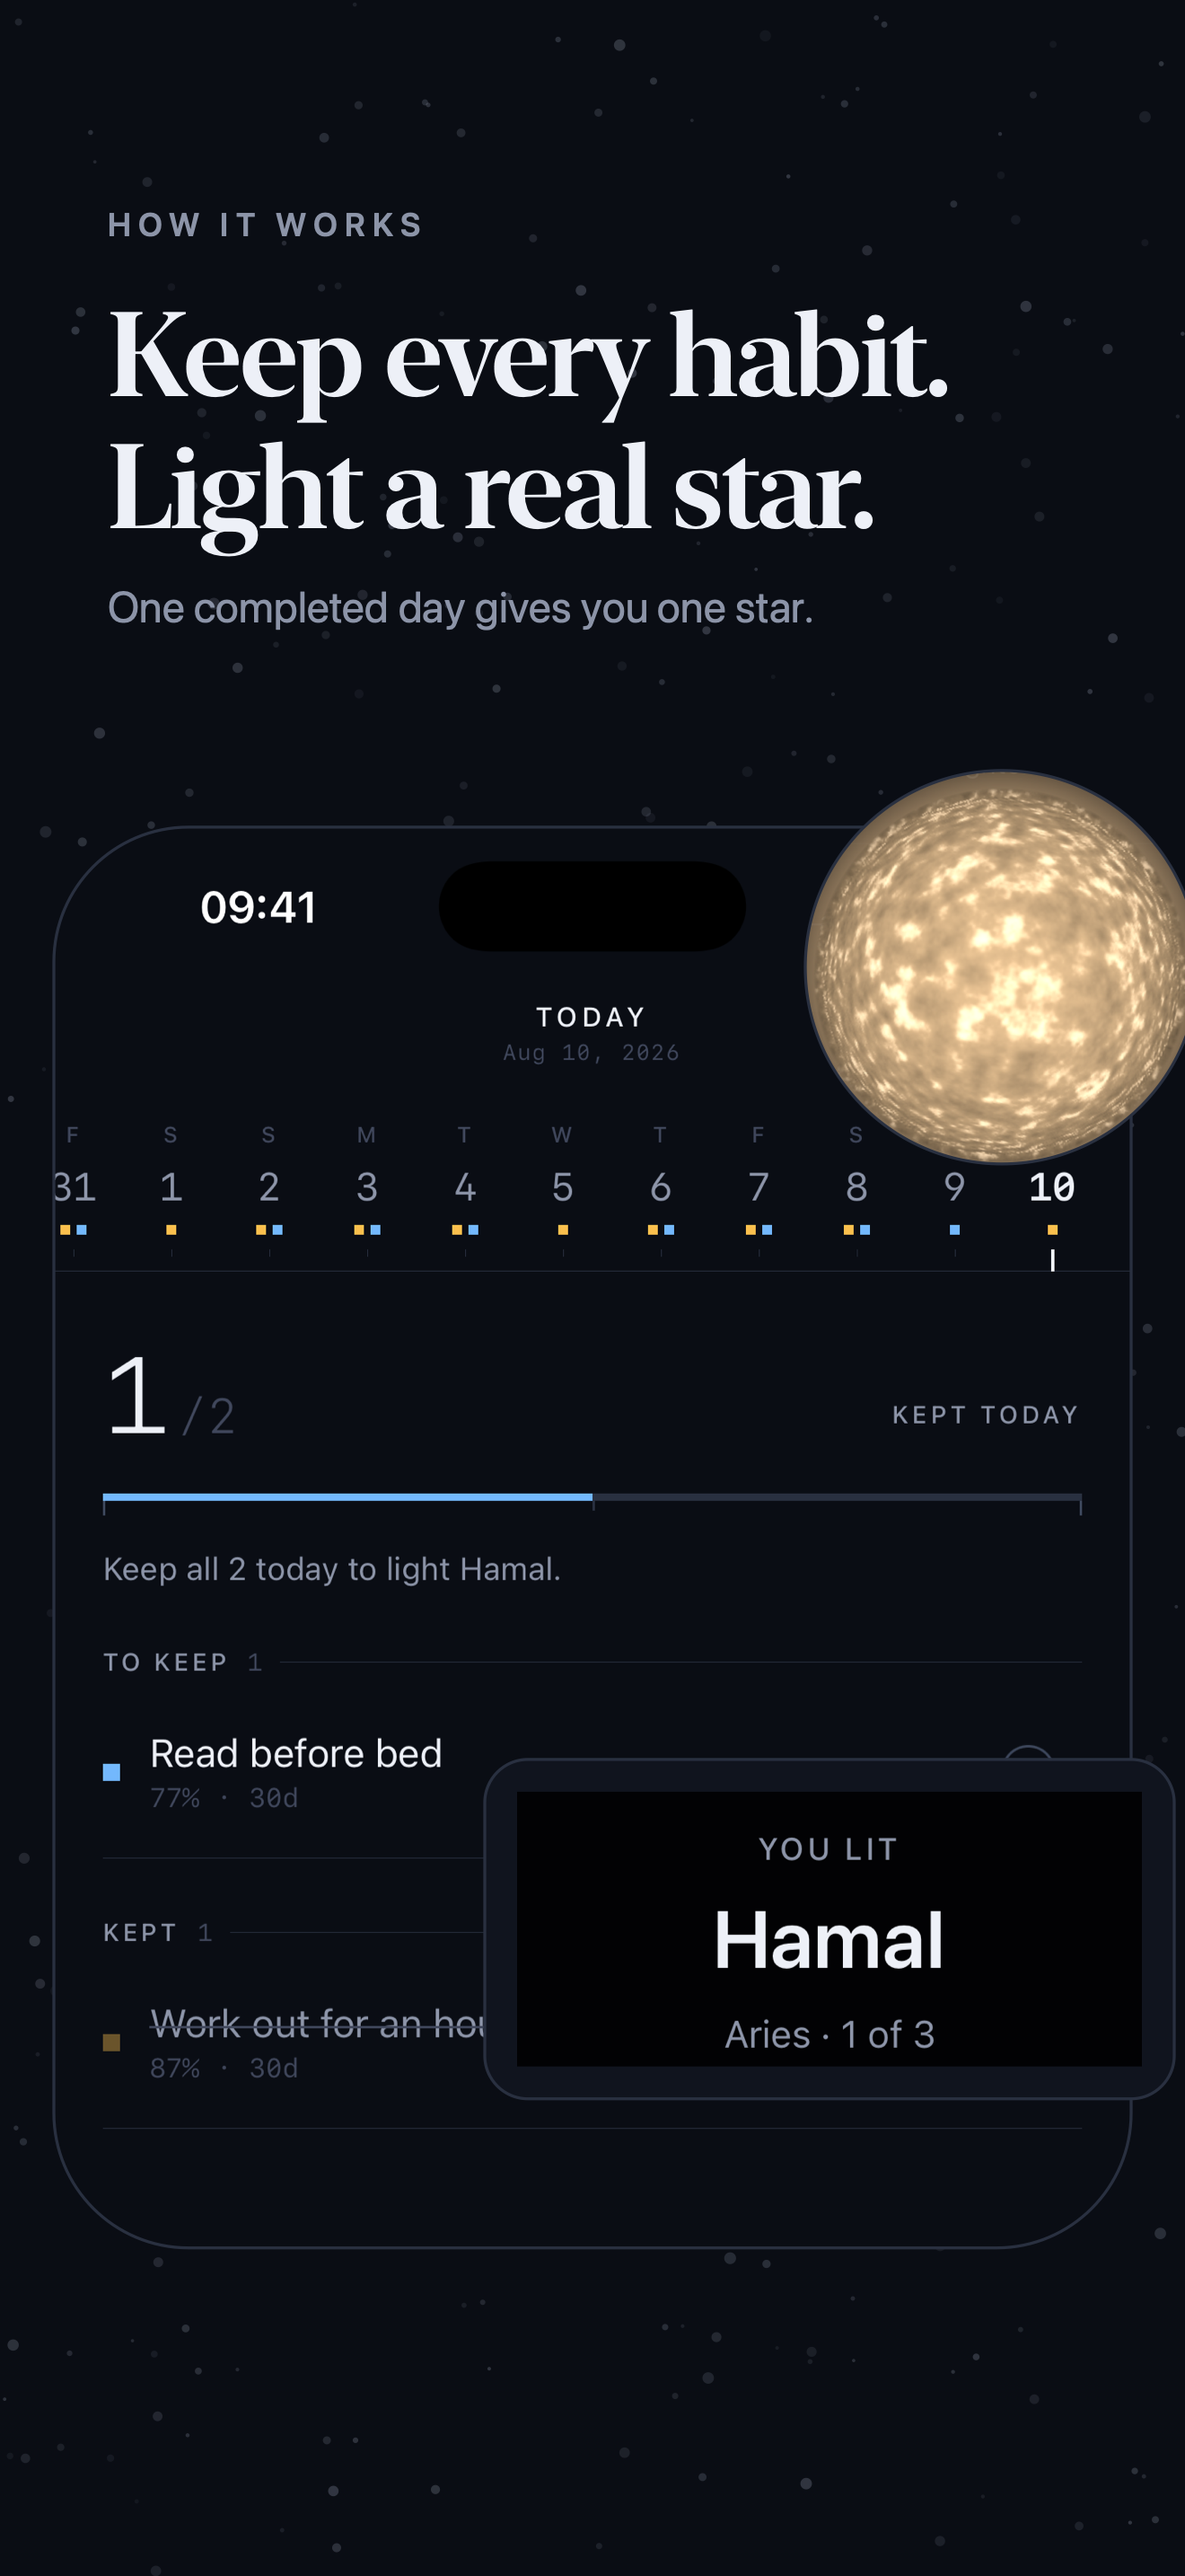
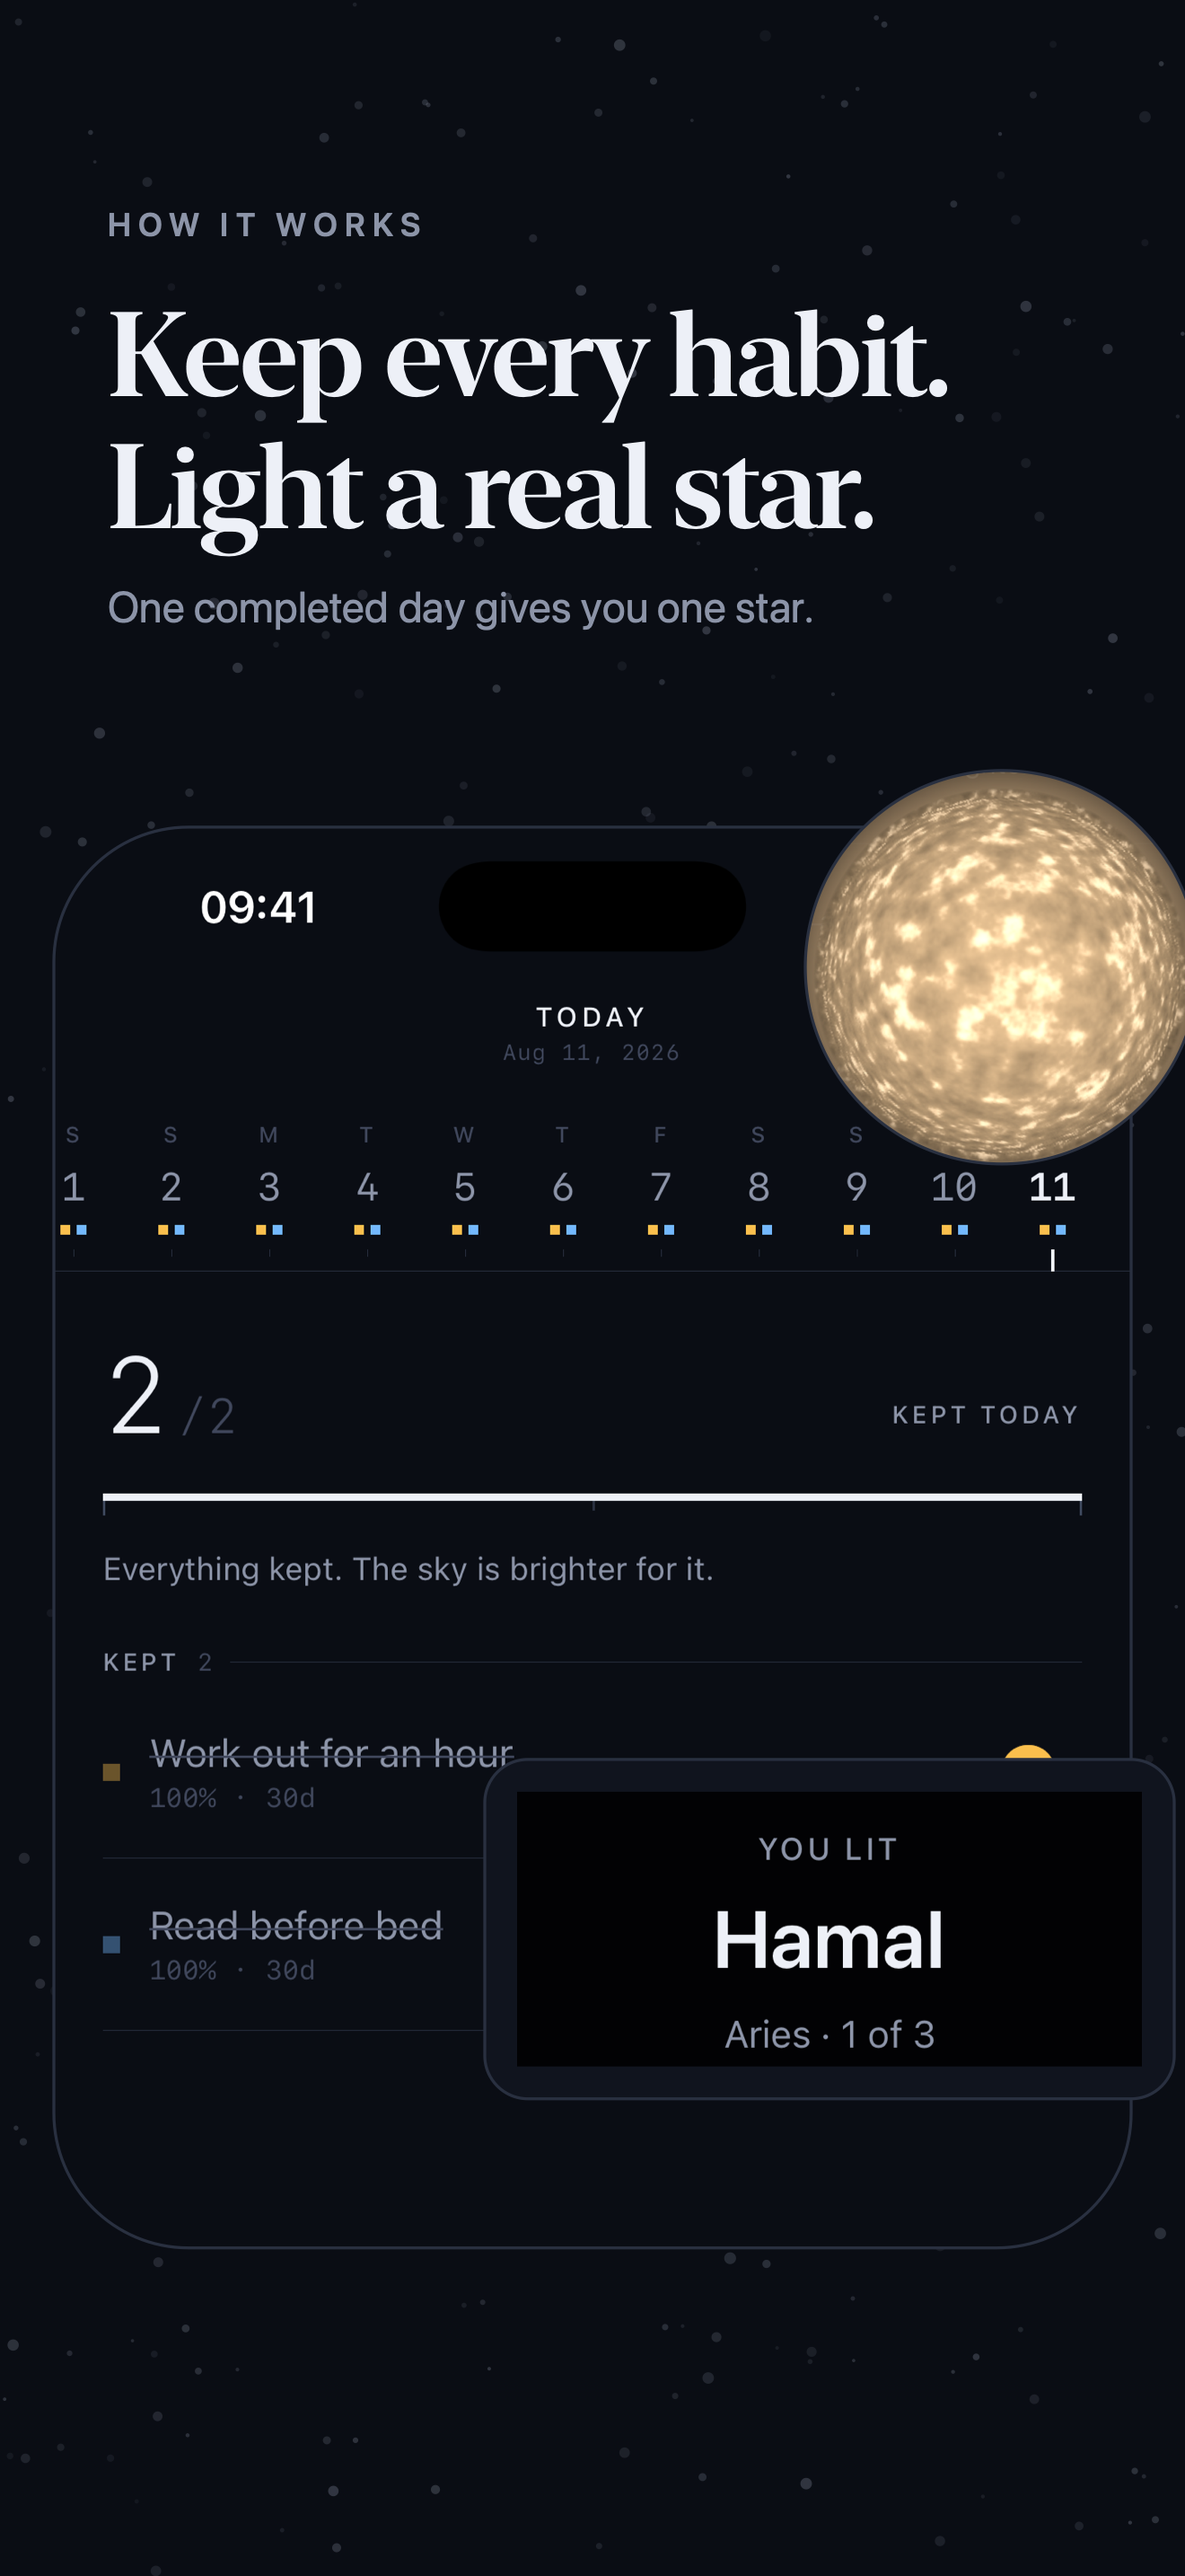
Reseed the screenshots as a perfect run, so the count matches the rule
The captions say a completed day lights a star, and the sky in the old
captures said thirty-eight stars across sixty-one days. That is correct
for the data behind it, because the seeder keeps each habit on eighty per
cent of days and a day only counts when both are marked, but a reader
cannot see any of that. They can only see arithmetic that does not work.

The debug menu gains a second action that seeds the same sixty days at a
keep rate of one. The ordinary seed stays, because a calendar with gaps
is what you want when checking how the Log looks, and a wall of unbroken
marks is what you want when the count on screen has to be checkable
against the rule.

Every capture that showed a number was retaken: the sky is sixty-one
stars, twenty-two figures and thirty-three per cent, the Log reads a
hundred per cent on both habits, Today shows the day complete, and the
widget agrees with all of it. Panel two now says one star on day one and
sixty-one two months in, which is the same claim the app makes.

diff --git a/Tools/make_screenshots.swift b/Tools/make_screenshots.swift
@@ -10,16 +10,17 @@
 //      half-drained battery:
 //        xcrun simctl status_bar <udid> override --time 9:41 \
 //          --batteryState charged --batteryLevel 100 --wifiBars 3 --cellularBars 4
-//   3. Install a DEBUG build, run onboarding, add a second habit, then use the
-//      debug menu's "Seed 60 days". An empty sky makes a poor case for an app
-//      about filling one.
+//   3. Install a DEBUG build, add two habits, then use the debug menu's
+//      "Seed 60 perfect days". The ordinary seed misses about a third of the
+//      days, which left thirty-eight stars over sixty-one days and quietly
+//      contradicted the one-star-a-day rule the captions state.
 //   4. Install a RELEASE build over the top. The data container survives and
 //      the debug menu's ladybug leaves the toolbar, which a reviewer would
 //      otherwise find sitting in the corner of two panels.
 //   5. Capture with `xcrun simctl io <udid> screenshot`.
 //   6. For sky-day1, uninstall, reinstall, set hasSeenFirstLight, add one habit
-//      and mark it. One star against thirty-eight is the whole argument for the
-//      app, and it has to be a real capture.
+//      and mark it. One star against sixty-one is the whole argument for the
+//      app, and both sides have to be real captures.
 //
 // The panels put the app's own instruments on the page: the star portrait, the
 // widget, the size comparison, the stats rule. That is what there is to look
@@ -275,13 +276,13 @@ let rawDirectory = CommandLine.arguments[1]
 let outDirectory = CommandLine.arguments[2]
 try? FileManager.default.createDirectory(atPath: outDirectory, withIntermediateDirectories: true)
 
-let today = load("\(rawDirectory)/today.png")!
+let today = load("\(rawDirectory)/today-perfect.png")!
 let unlock = load("\(rawDirectory)/unlock.png")!
-let sky = load("\(rawDirectory)/sky.png")!
+let sky = load("\(rawDirectory)/sky-perfect.png")!
 let skyDay1 = load("\(rawDirectory)/sky-day1.png")!
 let star = load("\(rawDirectory)/star.png")!
-let log = load("\(rawDirectory)/log.png")!
-let widget = load("\(rawDirectory)/widget.png")!
+let log = load("\(rawDirectory)/log-perfect.png")!
+let widget = load("\(rawDirectory)/widget-perfect.png")!
 let sun = load("\(rawDirectory)/sun.png")!
 let word = load("\(rawDirectory)/word.png")!
 
@@ -302,17 +303,17 @@ panel("01-loop") { context in
 // 2. The reason to keep going, and the only claim here that needs two separate
 //    captures to make honestly.
 //
-//    The supporting line exists to head off the subtraction. Thirty-eight stars
-//    across sixty days looks like the arithmetic is wrong until you know a day
-//    only counts when every habit is marked, and that the seeded history misses
-//    twenty-three days. Leaving the reader to work that out is worse than
-//    spending a line on it.
+//    The history behind this is a perfect run, seeded at a keep rate of one, so
+//    the count on screen is exactly the number of days elapsed. An earlier pass
+//    used the ordinary seed, which misses about a third of the days, and left
+//    thirty-eight stars across sixty-one days. It read as broken arithmetic
+//    rather than as a realistic user, and no supporting line rescued it.
 panel("02-grows") { context in
-    let y = heading(context, "The same install", "One star on day one.\nThirty-eight by sixty.",
-                    "Thirty-eight days kept, and a star for each one.")
+    let y = heading(context, "The same install", "One star on day one.\nSixty-one two months in.",
+                    "A star for every day you keep them all.")
     drawTag("Day 1", in: context, top: y + 62, x: 18)
     drawScreen(skyDay1, in: context, x: 18, top: y + 92, width: 196)
-    drawTag("Day 60", in: context, top: y + 62, x: 228)
+    drawTag("Day 61", in: context, top: y + 62, x: 228)
     drawScreen(sky, in: context, x: 228, top: y + 92, width: 196)
     drawPiece(sky, in: context, from: crop(14, 122, 412, 74),
               x: 40, top: y + 560, width: 360, pad: 12)

diff --git a/Astra/Views/TodayView.swift b/Astra/Views/TodayView.swift
@@ -109,6 +109,9 @@ struct TodayView: View {
                 ToolbarItem(placement: .topBarLeading) {
                     Menu("Debug", systemImage: "ladybug") {
                         Button("Seed 60 days") { act { try DebugSeed.fill(context: context) } }
+                        Button("Seed 60 perfect days") {
+                            act { try DebugSeed.fill(context: context, keepRate: 1) }
+                        }
                         Button("Show onboarding") { DebugSeed.replayOnboarding() }
                         Button("Clear all", role: .destructive) {
                             act { try DebugSeed.clear(context: context) }

diff --git a/Astra/App/DebugSeed.swift b/Astra/App/DebugSeed.swift
@@ -13,6 +13,10 @@ enum DebugSeed {
 
     /// Backdates the habits and marks `days` of history, keeping roughly
     /// `keepRate` of them so the calendar shows gaps rather than a perfect wall.
+    ///
+    /// A rate of 1 fills every day instead, which is the run the store
+    /// screenshots use: one star per day with nothing missed, so the count on
+    /// screen matches the rule the captions state.
     static func fill(
         context: ModelContext,
         days: Int = 60,
